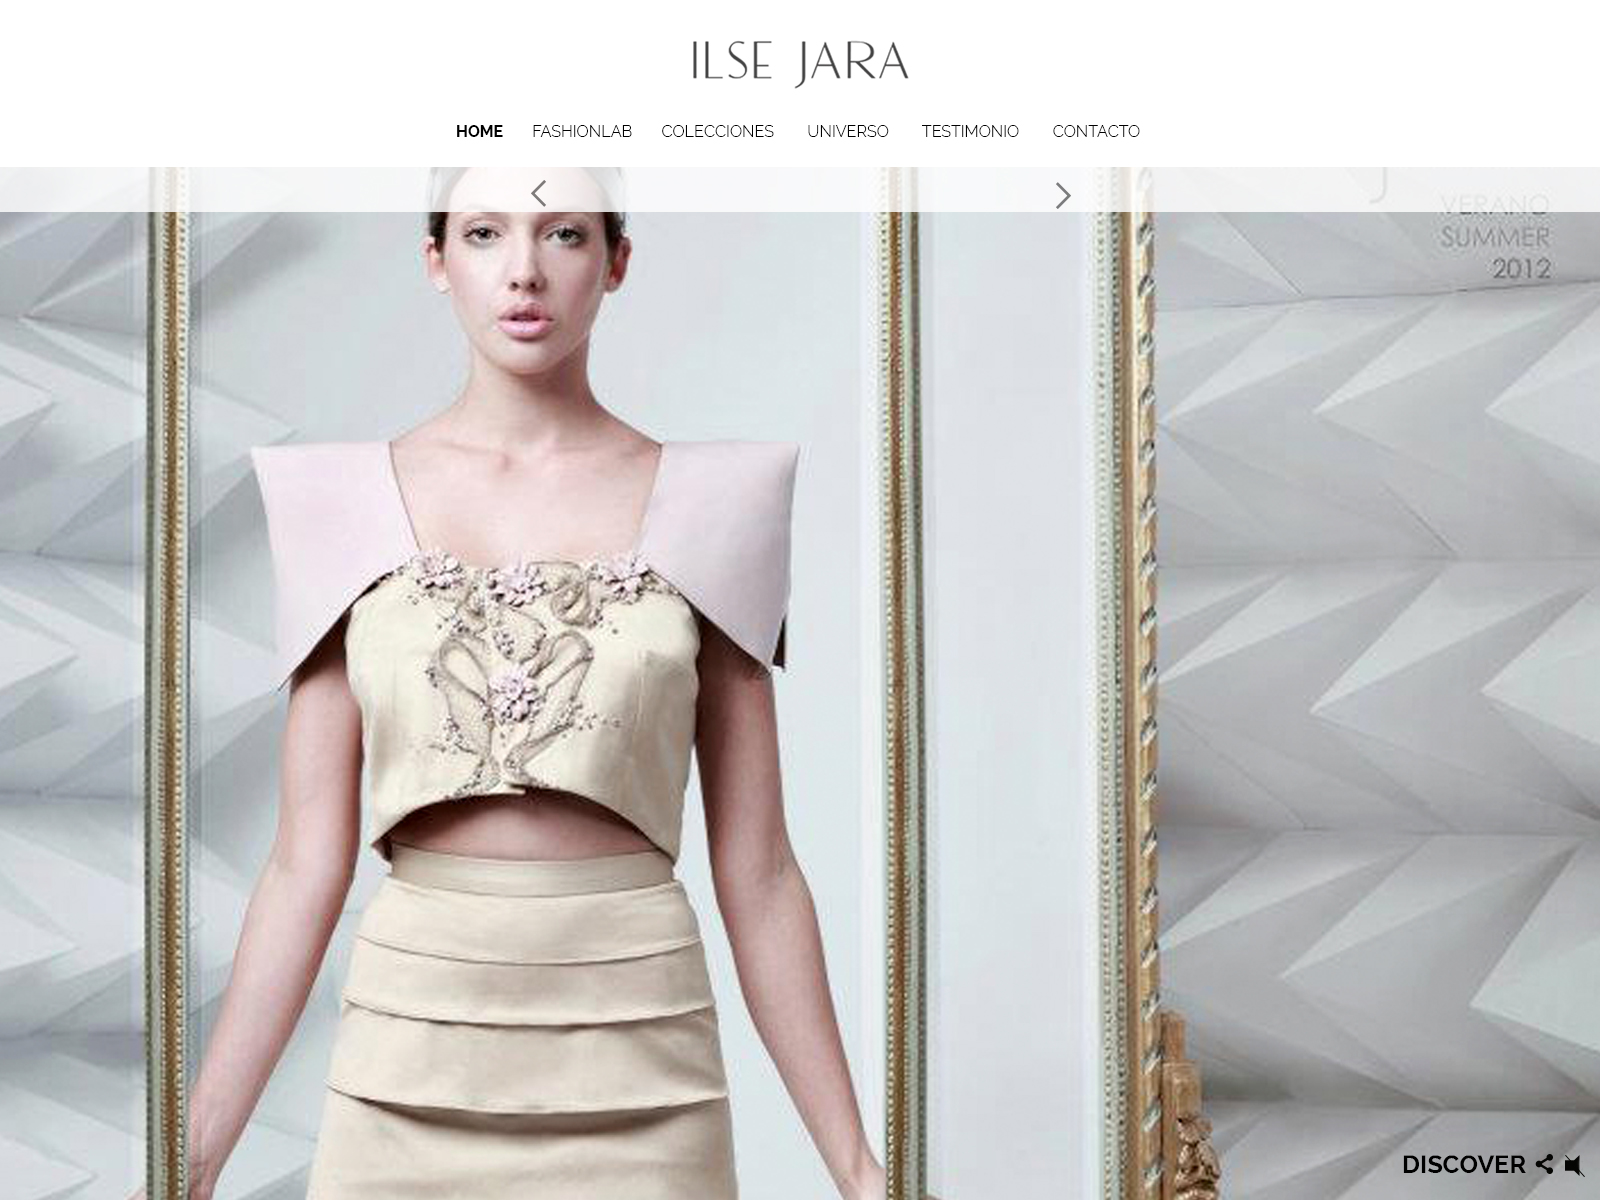
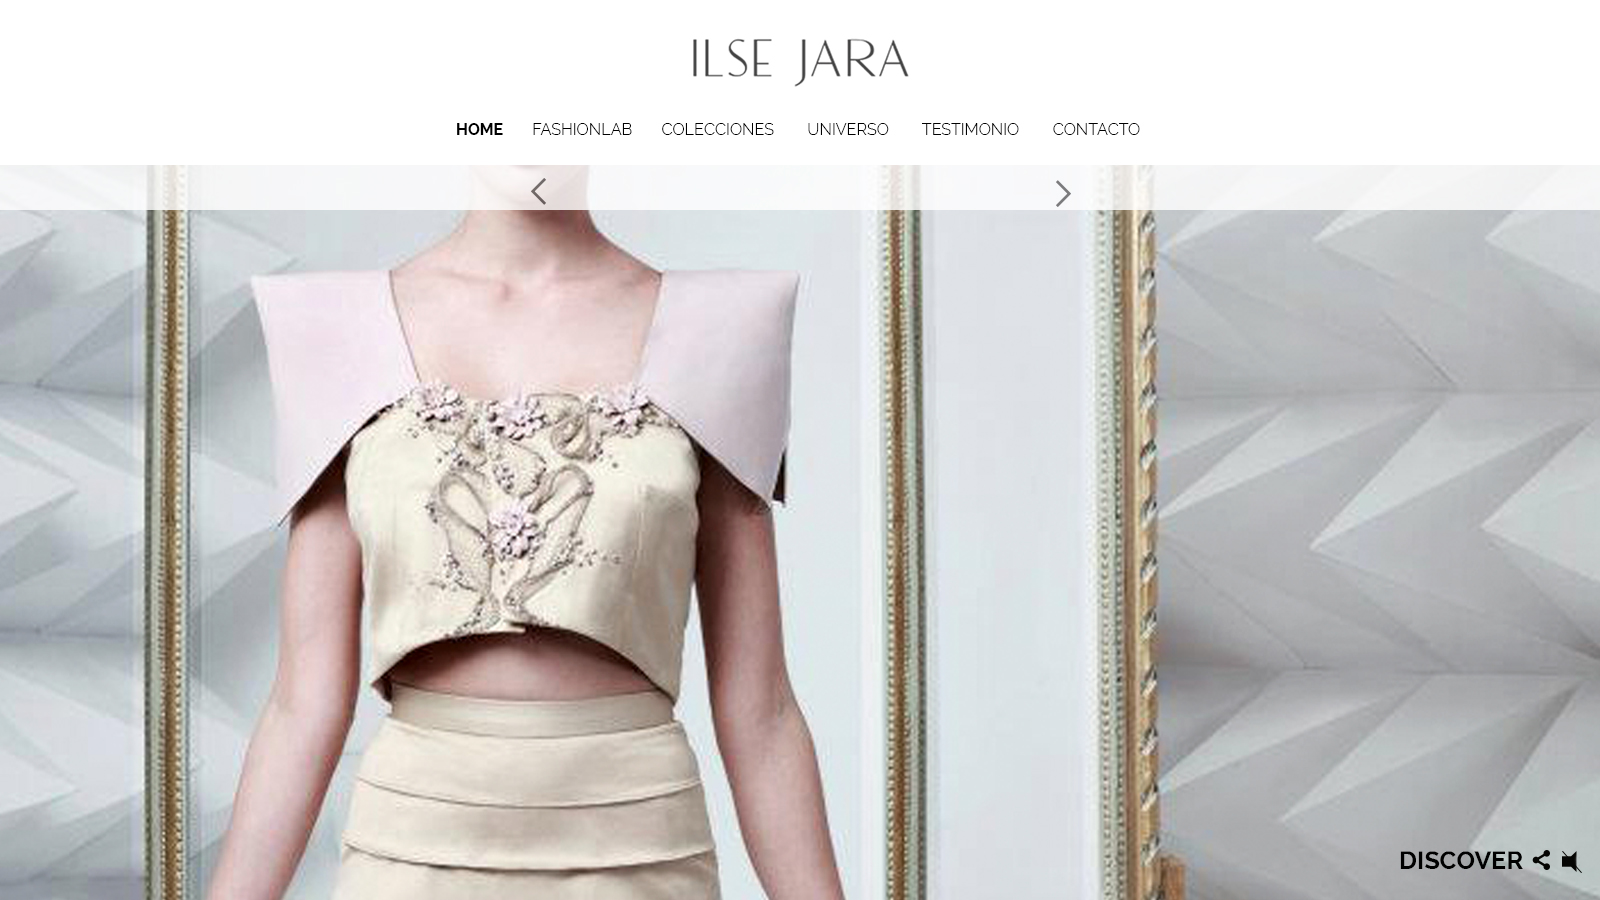
Acomodo de alto

diff --git a/themes/ilse-jara/assets/css/template.css b/themes/ilse-jara/assets/css/template.css
@@ -71,7 +71,7 @@ body {
     white-space: normal;
     display: inline-block;
     width: 100%;
-    padding-bottom: 56.1%;
+    padding-bottom: 45.6%;
     height: 0;
     position: relative;
     /* pointer-events: none; */
@@ -213,11 +213,12 @@ body {
     float: left;
     width: 50%;
     background: red;
-    padding-bottom: 35%;
+    padding-bottom: 28.1%;
     height: 0;
     background-position: center;
     background-size: cover;
     display: inline-block;
+    opacity: 1 !important;
 }
 
 body.home {

diff --git a/themes/ilse-jara/assets/css/dev.css b/themes/ilse-jara/assets/css/dev.css
@@ -1,5 +1,5 @@
 body {
-    /* background: url("../images/dev/home3.jpg") no-repeat center top -46px; */
+    /* background: url("../images/dev/home3.jpg") no-repeat center top 0px; */
     /* padding-bottom: 5000px; */
     /* opacity: 0.8; */
 }
